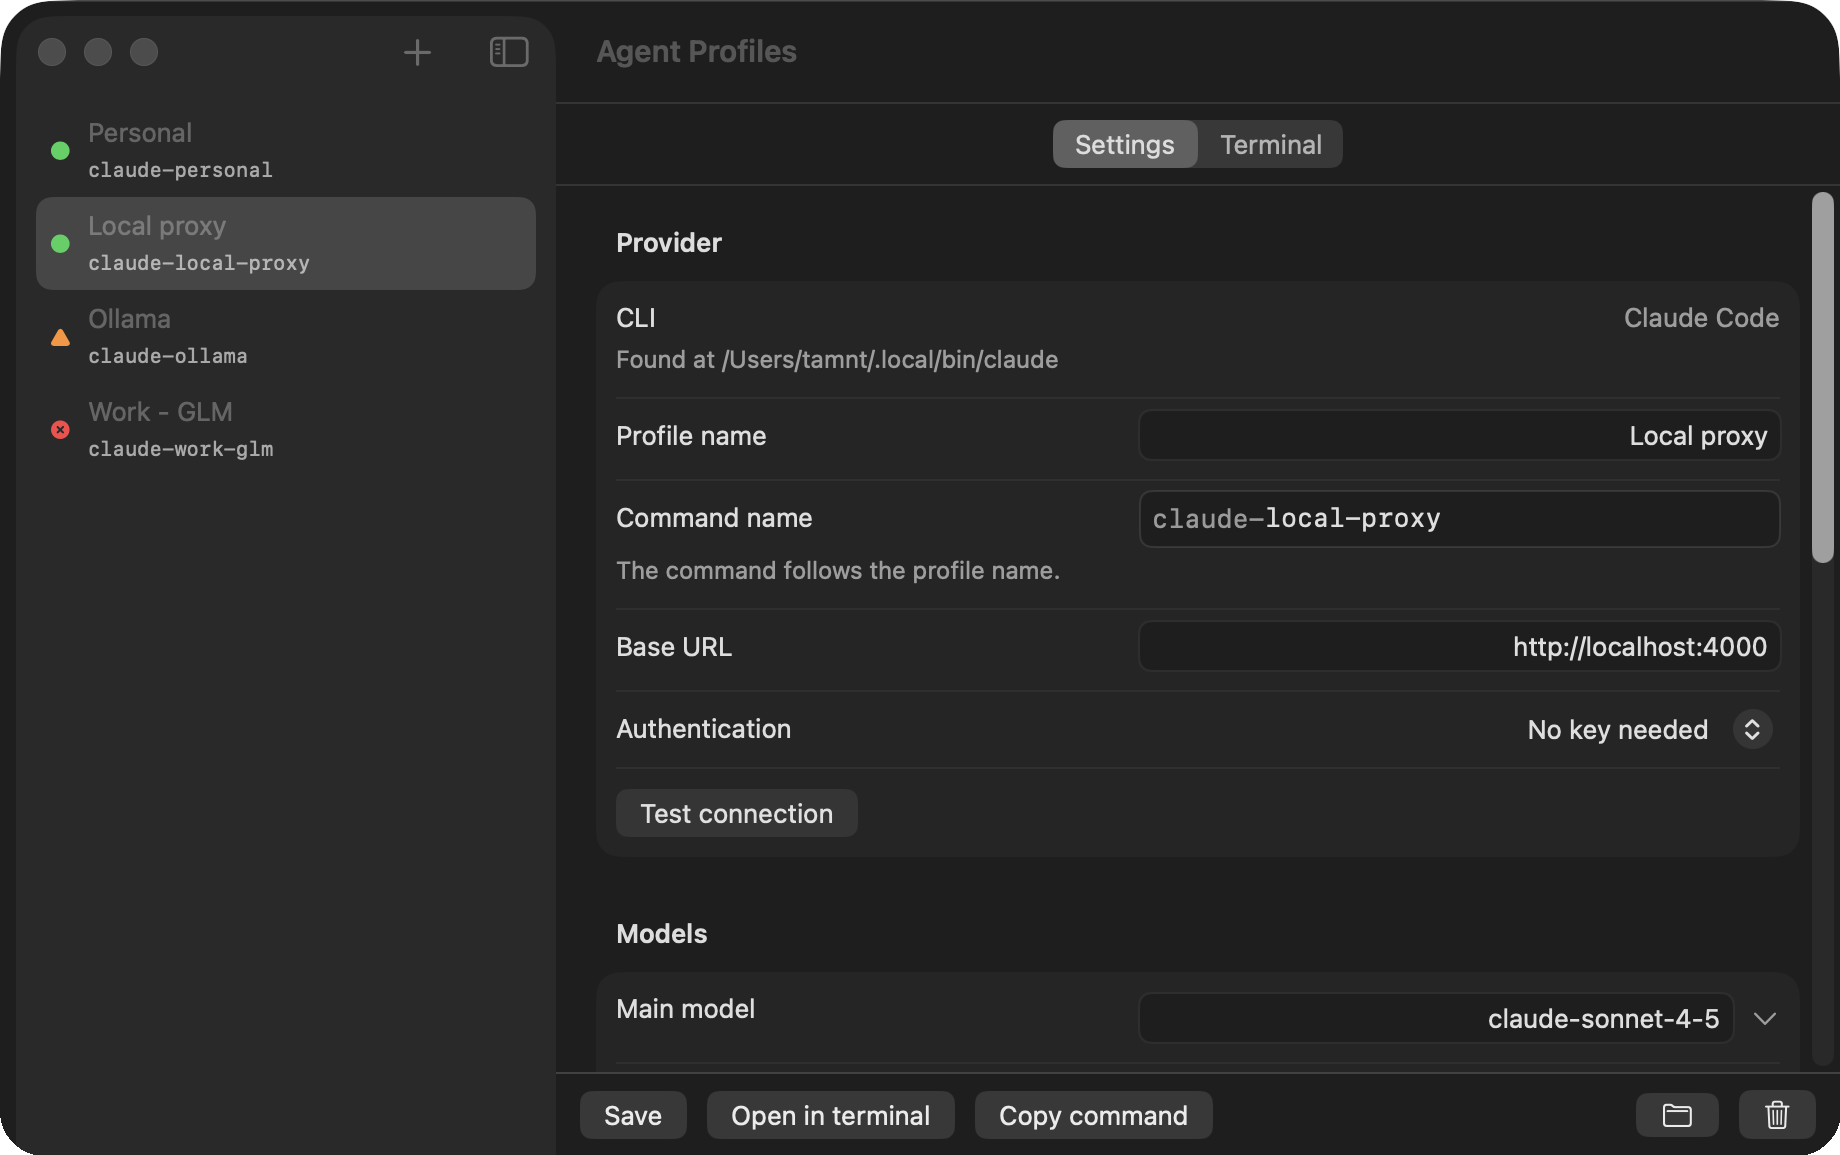
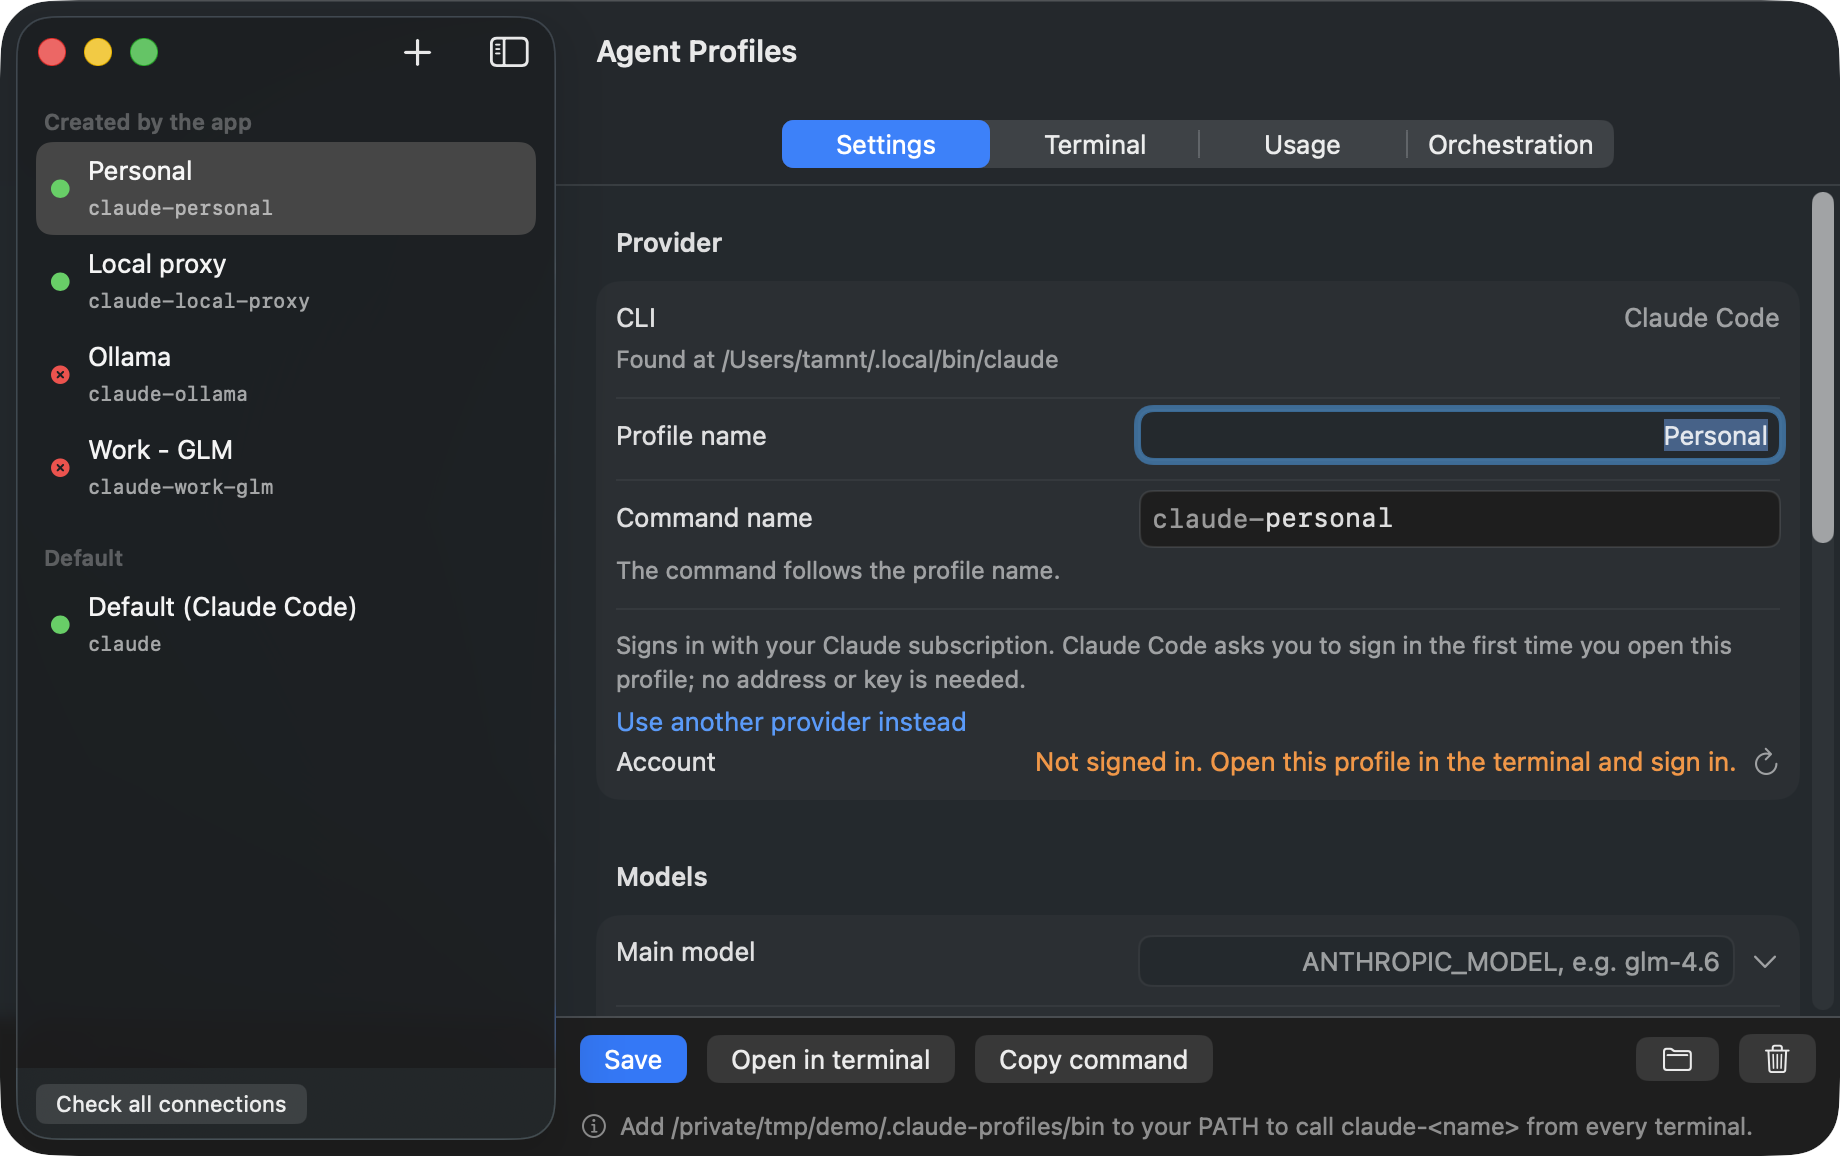
docs: new screenshots of the current UI, with the orchestrator terminal and the queue diagram

diff --git a/README.vi.md b/README.vi.md
@@ -64,7 +64,13 @@ Agent Profiles.
   đến từ chúng tôi.
 
 <p align="center">
-  <img src="docs/images/terminal-dark.png" alt="Một profile chạy Claude Code trong terminal ngay trong cửa sổ" width="760">
+  <img src="docs/images/terminal-dark.png" alt="Một profile chạy Claude Code ở vai trò điều phối (Opus, mức medium) trong terminal ngay trong cửa sổ" width="760">
+</p>
+
+<p align="center">
+  <img src="docs/images/terminal-chooser-vi.png" alt="Tab Terminal hỏi cách mở: bình thường, điều phối tuần tự hoặc điều phối hàng đợi" width="370">
+  &nbsp;
+  <img src="docs/images/orchestration-vi.png" alt="Tab Điều phối với quy trình hàng đợi được vẽ thành sơ đồ" width="370">
 </p>
 
 <p align="center">

diff --git a/README.md b/README.md
@@ -68,7 +68,13 @@ called Agent Profiles.
   click, after checking that it really comes from us.
 
 <p align="center">
-  <img src="docs/images/terminal-dark.png" alt="A profile running Claude Code in the terminal inside the window" width="760">
+  <img src="docs/images/terminal-dark.png" alt="A profile running Claude Code as the orchestrator (Opus, medium effort) in the terminal inside the window" width="760">
+</p>
+
+<p align="center">
+  <img src="docs/images/terminal-chooser-en.png" alt="The Terminal tab asks how to start: normal, orchestrator sequential or orchestrator queue" width="370">
+  &nbsp;
+  <img src="docs/images/orchestration-en.png" alt="The Orchestration tab with the queue workflow drawn as a diagram" width="370">
 </p>
 
 <p align="center">
